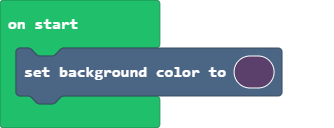
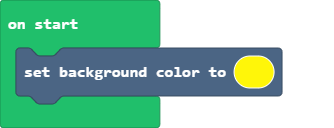
Update main.blocks, main.ts

Changed region(s): [[0.6886, 0.4375, 0.8383, 0.6875]]

diff --git a/main.ts b/main.ts
@@ -1,1 +1,1 @@
-scene.setBackgroundColor(12)
+scene.setBackgroundColor(5)
